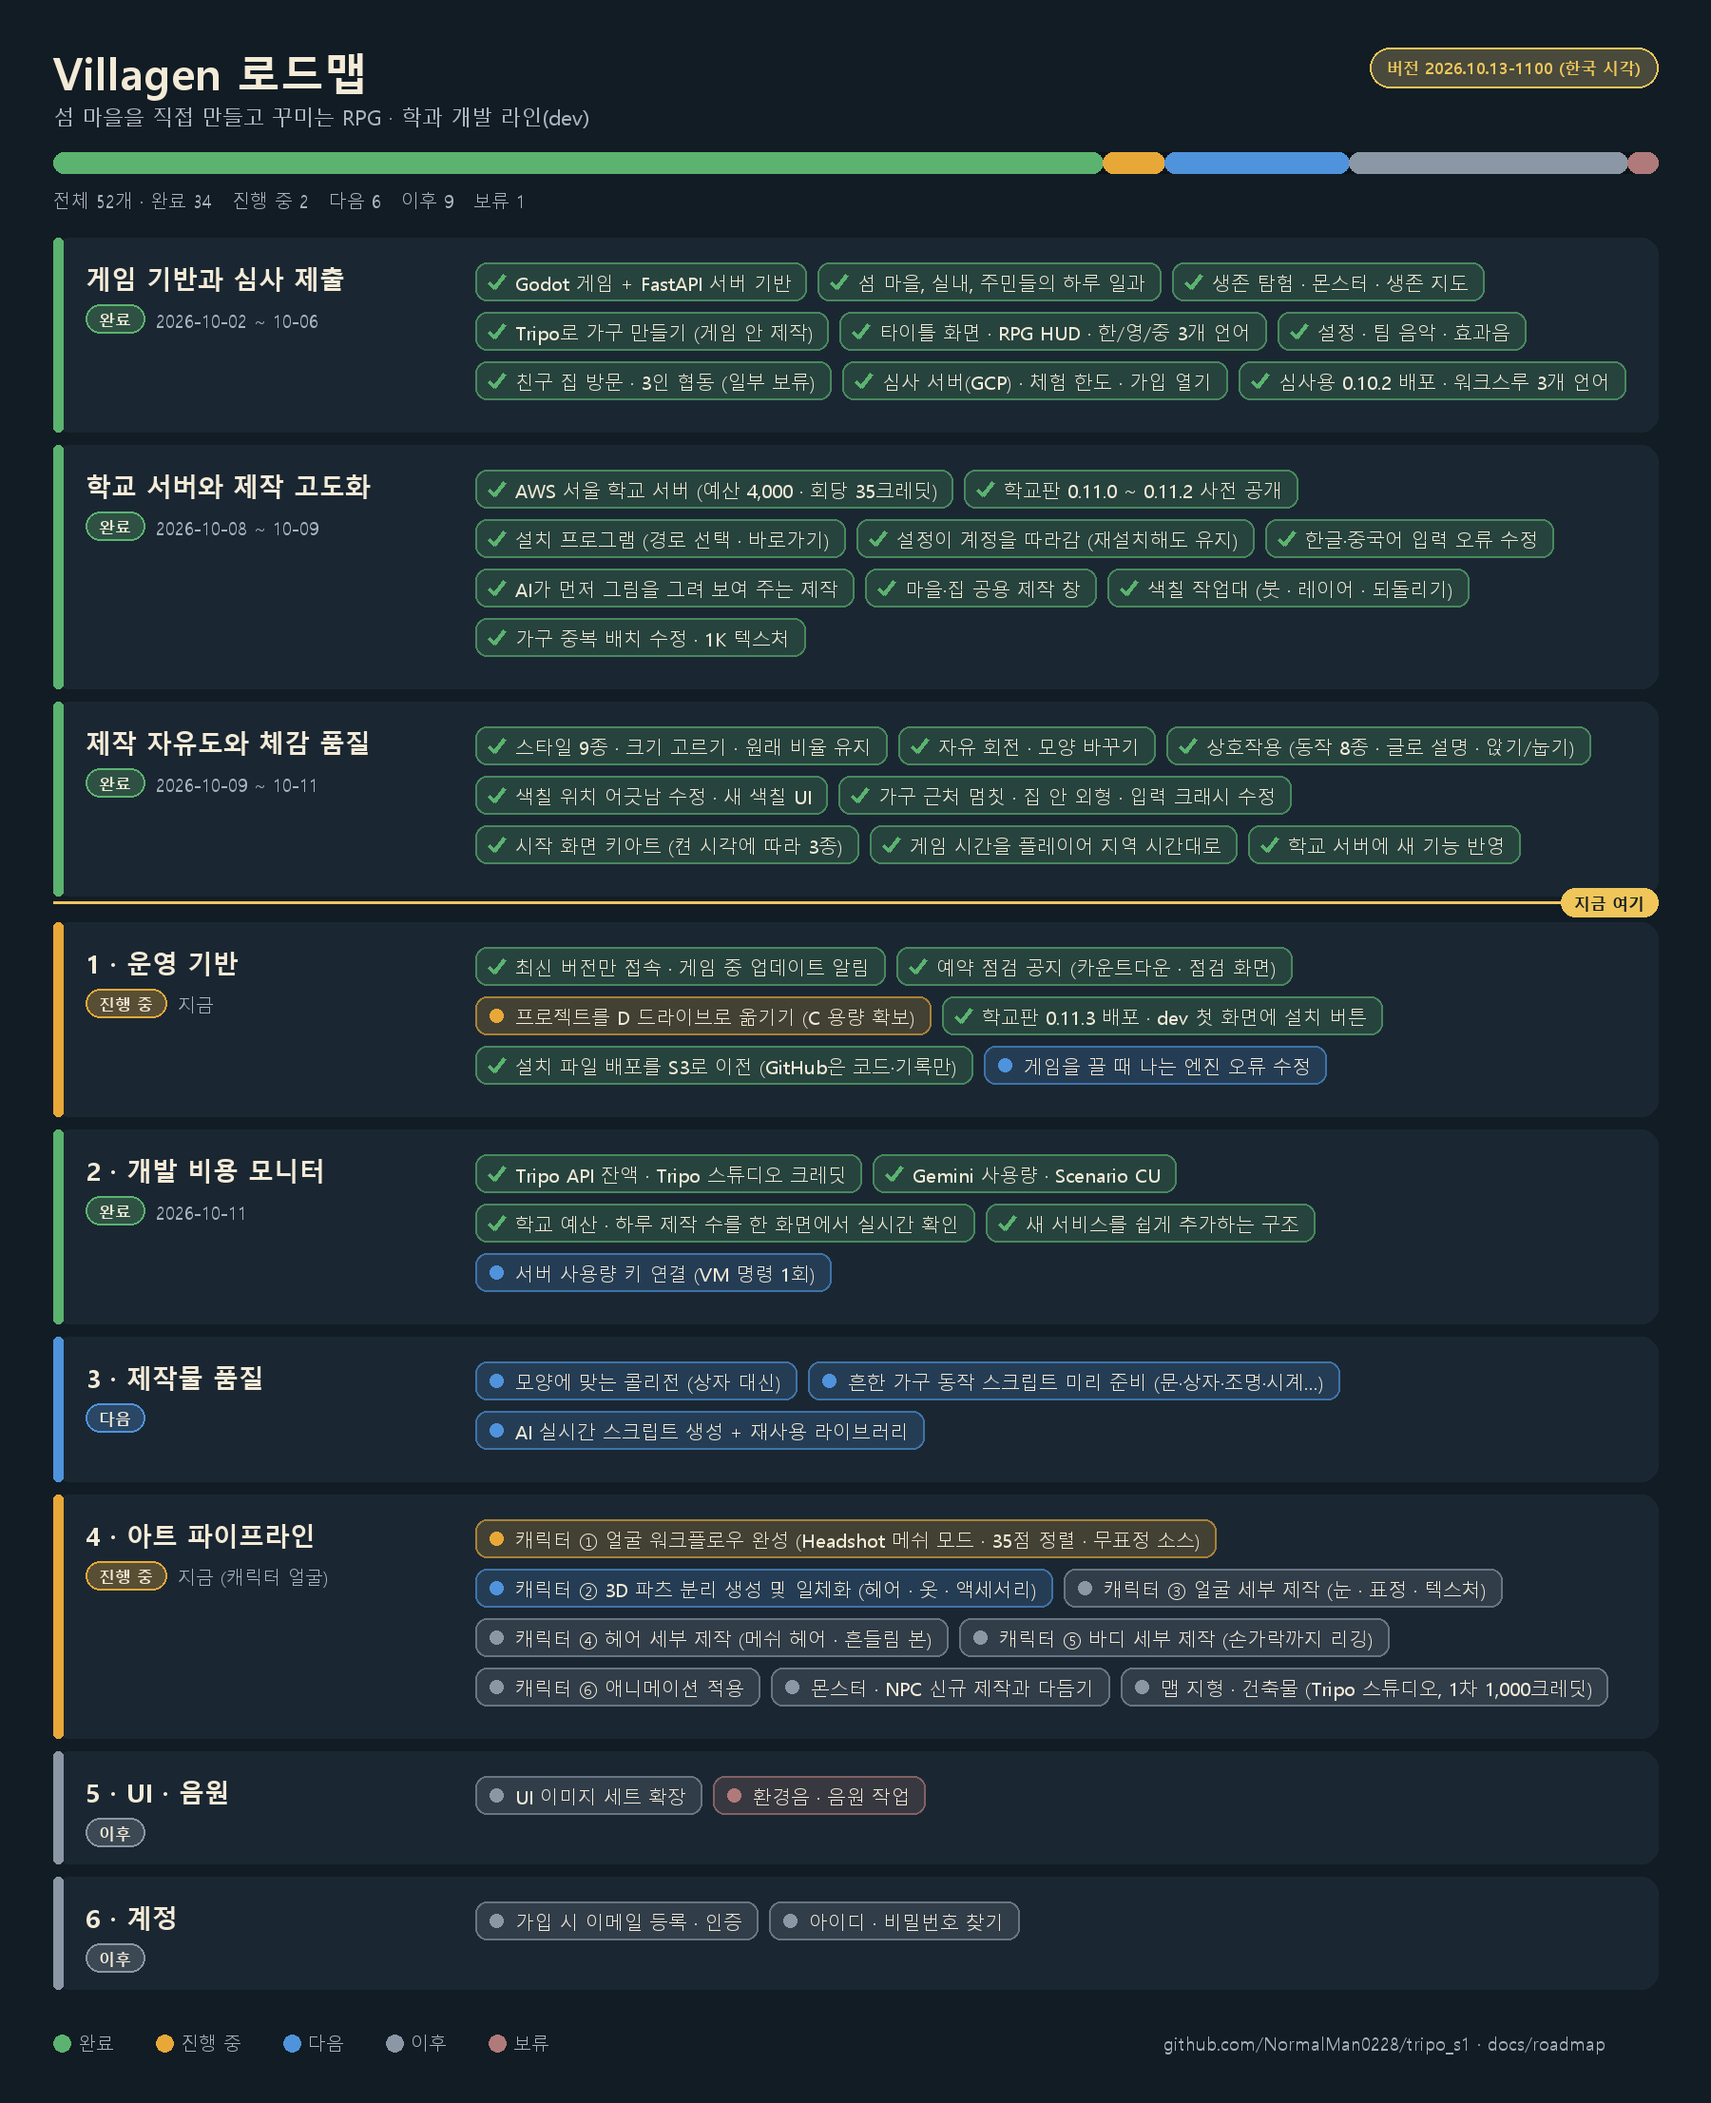
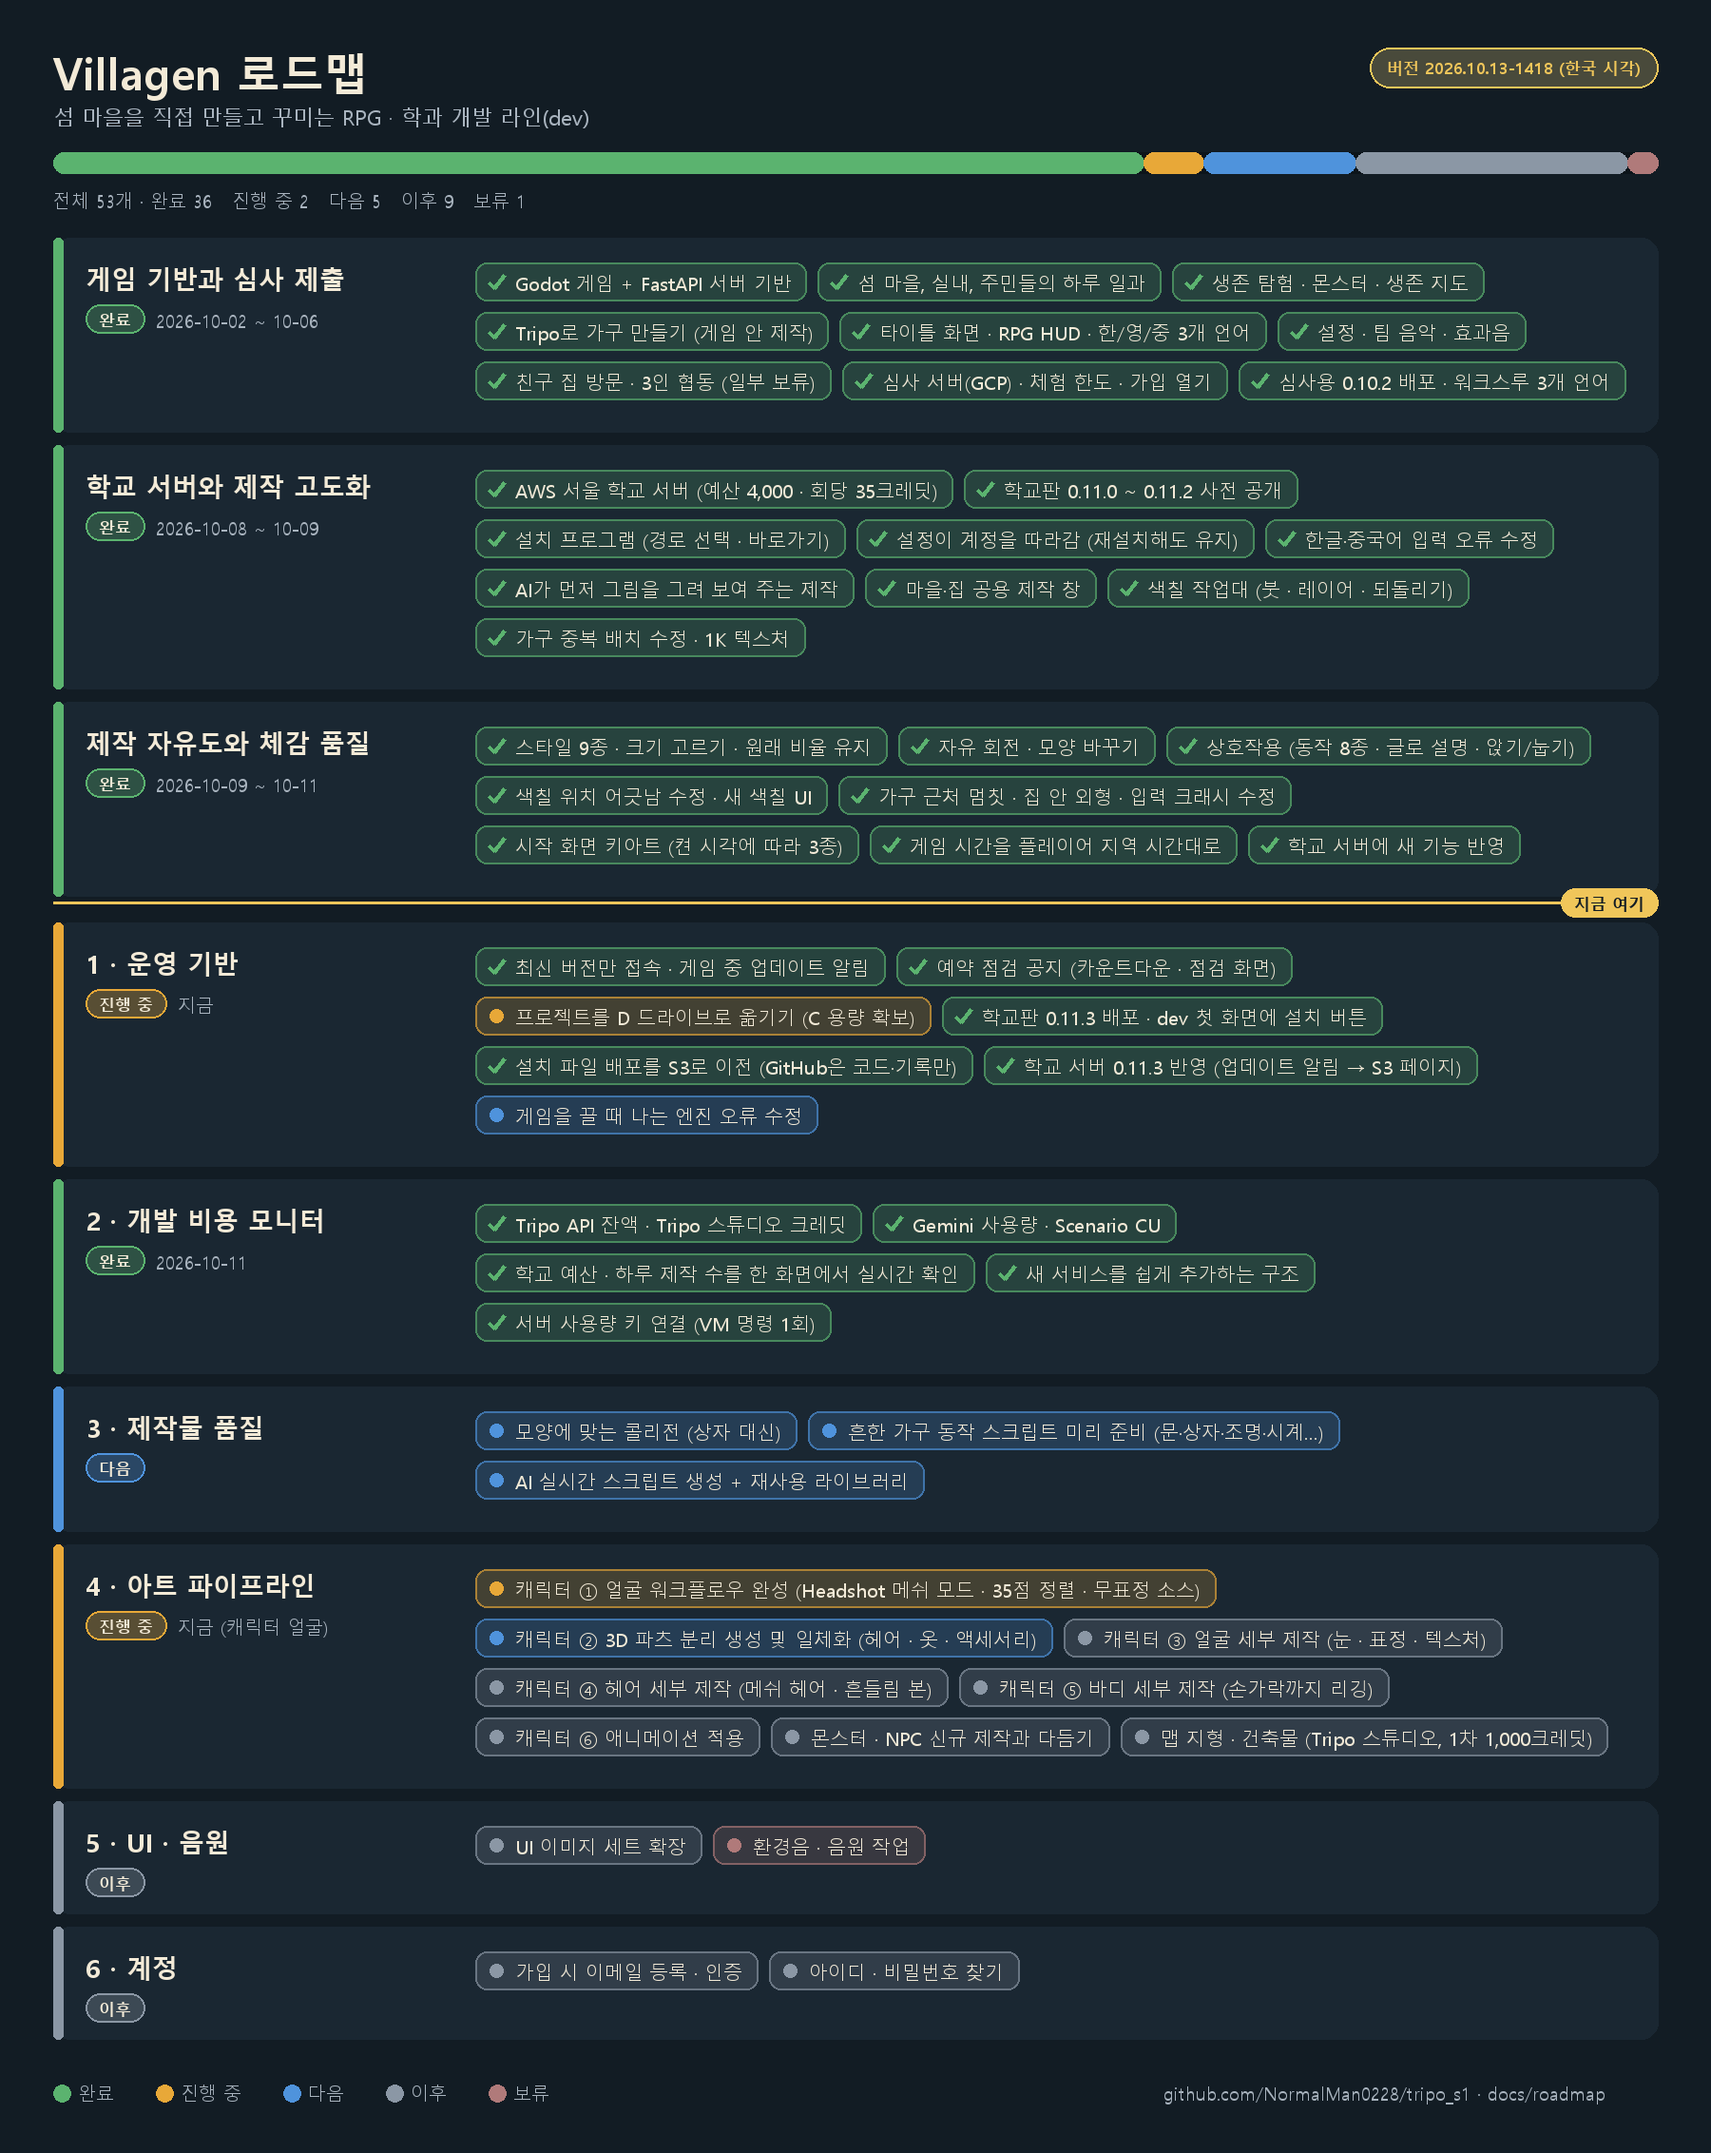
Roadmap: school server on 0.11.3, usage key connected

diff --git a/docs/roadmap/ROADMAP_KO.md b/docs/roadmap/ROADMAP_KO.md
@@ -1,8 +1,8 @@
 # Villagen 로드맵
 
-**버전 2026.10.13-1100** (한국 시각) · 섬 마을을 직접 만들고 꾸미는 RPG · 학과 개발 라인(dev)
+**버전 2026.10.13-1418** (한국 시각) · 섬 마을을 직접 만들고 꾸미는 RPG · 학과 개발 라인(dev)
 
-> 그림으로 보기: [VISUAL_KO.md](VISUAL_KO.md) · 전체 52개 중 완료 34 · 진행 중 2 · 다음 6 · 이후 9 · 보류 1
+> 그림으로 보기: [VISUAL_KO.md](VISUAL_KO.md) · 전체 53개 중 완료 36 · 진행 중 2 · 다음 5 · 이후 9 · 보류 1
 
 - [학교판 내려받기 (사전 공개)](https://villagen-school-dl.s3.ap-northeast-2.amazonaws.com/school/index.html)
 - [심사용 최신판 0.10.2](https://github.com/NormalMan0228/tripo_s1/releases/latest)
@@ -51,6 +51,7 @@
 - [ ] 프로젝트를 D 드라이브로 옮기기 (C 용량 확보) · *진행 중*
 - [x] 학교판 0.11.3 배포 · dev 첫 화면에 설치 버튼 (10-12)
 - [x] 설치 파일 배포를 S3로 이전 (GitHub은 코드·기록만) (10-13)
+- [x] 학교 서버 0.11.3 반영 (업데이트 알림 → S3 페이지) (10-13)
 - [ ] 게임을 끌 때 나는 엔진 오류 수정 · *다음*
 
 ## 2 · 개발 비용 모니터  `완료` · 2026-10-11
@@ -59,7 +60,7 @@
 - [x] Gemini 사용량 · Scenario CU (10-11)
 - [x] 학교 예산 · 하루 제작 수를 한 화면에서 실시간 확인 (10-11)
 - [x] 새 서비스를 쉽게 추가하는 구조 (10-11)
-- [ ] 서버 사용량 키 연결 (VM 명령 1회) · *다음*
+- [x] 서버 사용량 키 연결 (VM 명령 1회) (10-13)
 
 ## 3 · 제작물 품질  `다음`
 
@@ -92,6 +93,7 @@
 
 | 버전 (한국 시각) | 바뀐 점 |
 |---|---|
+| 2026.10.13-1418 | 학교 서버 0.11.3 반영, 비용 모니터에 서버 사용량 키 연결 |
 | 2026.10.13-1100 | 설치 파일 배포를 GitHub 릴리스에서 S3 내려받기 페이지로 이전 |
 | 2026.10.12-1520 | 학교판 0.11.3 배포, dev 첫 화면에 설치 파일 바로 받기 버튼 |
 | 2026.10.11-1726 | 4단계 캐릭터 작업 순서 확정 (얼굴 워크플로우 → 파츠 분리·일체화 → 얼굴 → 헤어 → 바디 → 애니메이션), 얼굴 워크플로우 진행 중 |

diff --git a/docs/roadmap/VISUAL_KO.md b/docs/roadmap/VISUAL_KO.md
@@ -1,7 +1,7 @@
 # Villagen 로드맵 (그림)
 
-**버전 2026.10.13-1100** (한국 시각) · 글로 보기: [ROADMAP_KO.md](ROADMAP_KO.md)
+**버전 2026.10.13-1418** (한국 시각) · 글로 보기: [ROADMAP_KO.md](ROADMAP_KO.md)
 
-![Villagen 로드맵 2026.10.13-1100](roadmap.png)
+![Villagen 로드맵 2026.10.13-1418](roadmap.png)
 
 초록 완료 · 주황 진행 중 · 파랑 다음 · 회색 이후 · 갈색 보류

diff --git a/docs/roadmap/README.md b/docs/roadmap/README.md
@@ -1,8 +1,8 @@
 # Villagen 로드맵
 
-**버전 2026.10.13-1100** (한국 시각)
+**버전 2026.10.13-1418** (한국 시각)
 
 - [그림으로 보기](VISUAL_KO.md)
-- [글로 보기](ROADMAP_KO.md) — 완료 34 · 진행 중 2 · 다음 6 · 이후 9
+- [글로 보기](ROADMAP_KO.md) — 완료 36 · 진행 중 2 · 다음 5 · 이후 9
 
 ![로드맵](roadmap.png)
